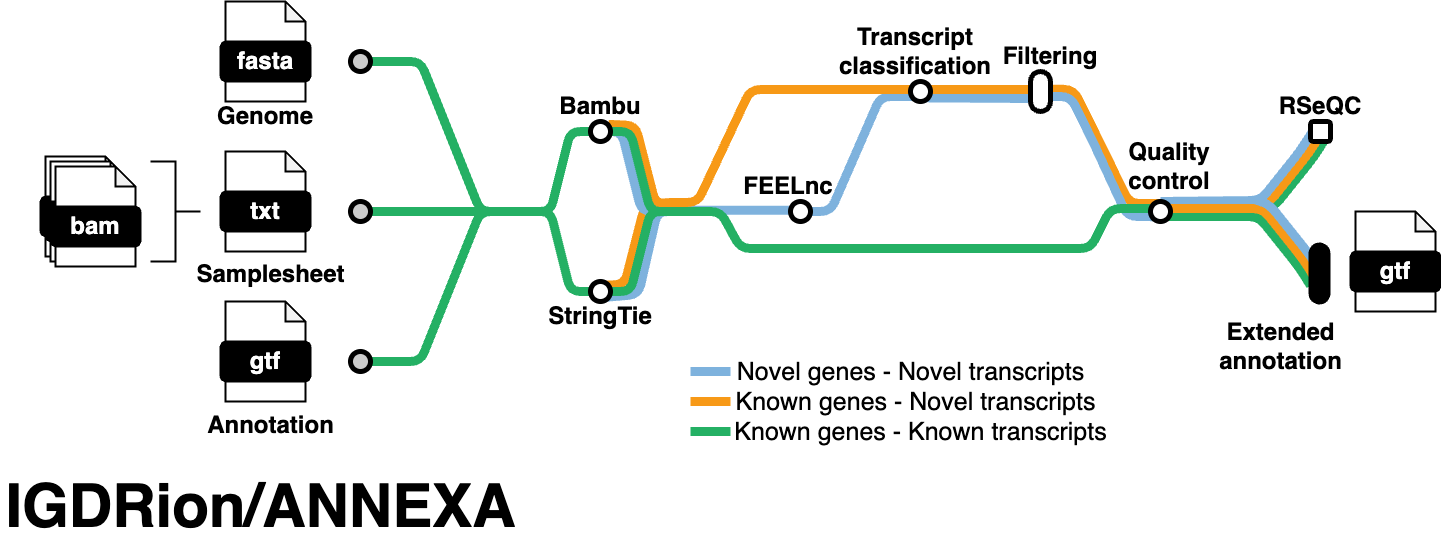
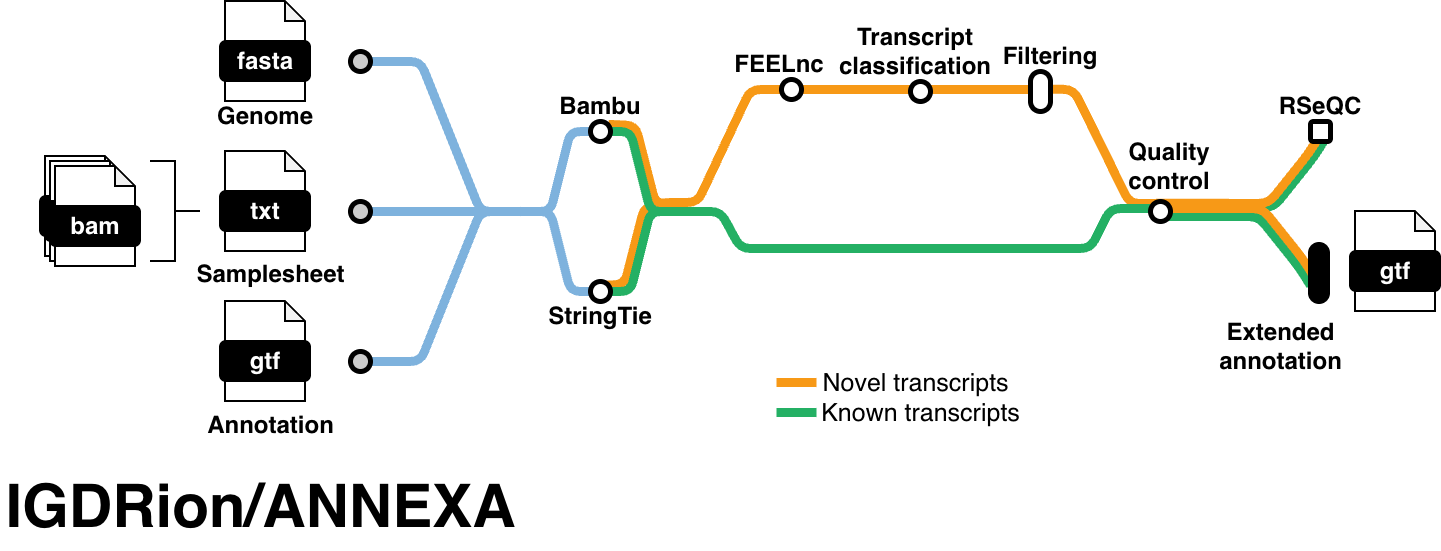
Update metromap and bump version

diff --git a/README.md b/README.md
@@ -78,7 +78,7 @@ Profile options
 
 Main options
   --tx_discovery        [string]  Specify which transcriptome reconstruction tool to use. (accepted: bambu, stringtie2, both) [default: bambu]
-  --filter              [boolean] Perform or not the filtering step. [default: true]
+  --filter              [boolean] Perform or not the filtering step. [default: false]
   --withGeneCoverage    [boolean] Run RSeQC (can be long depending on annotation and bam sizes). [default: false]
 
 Bambu options
